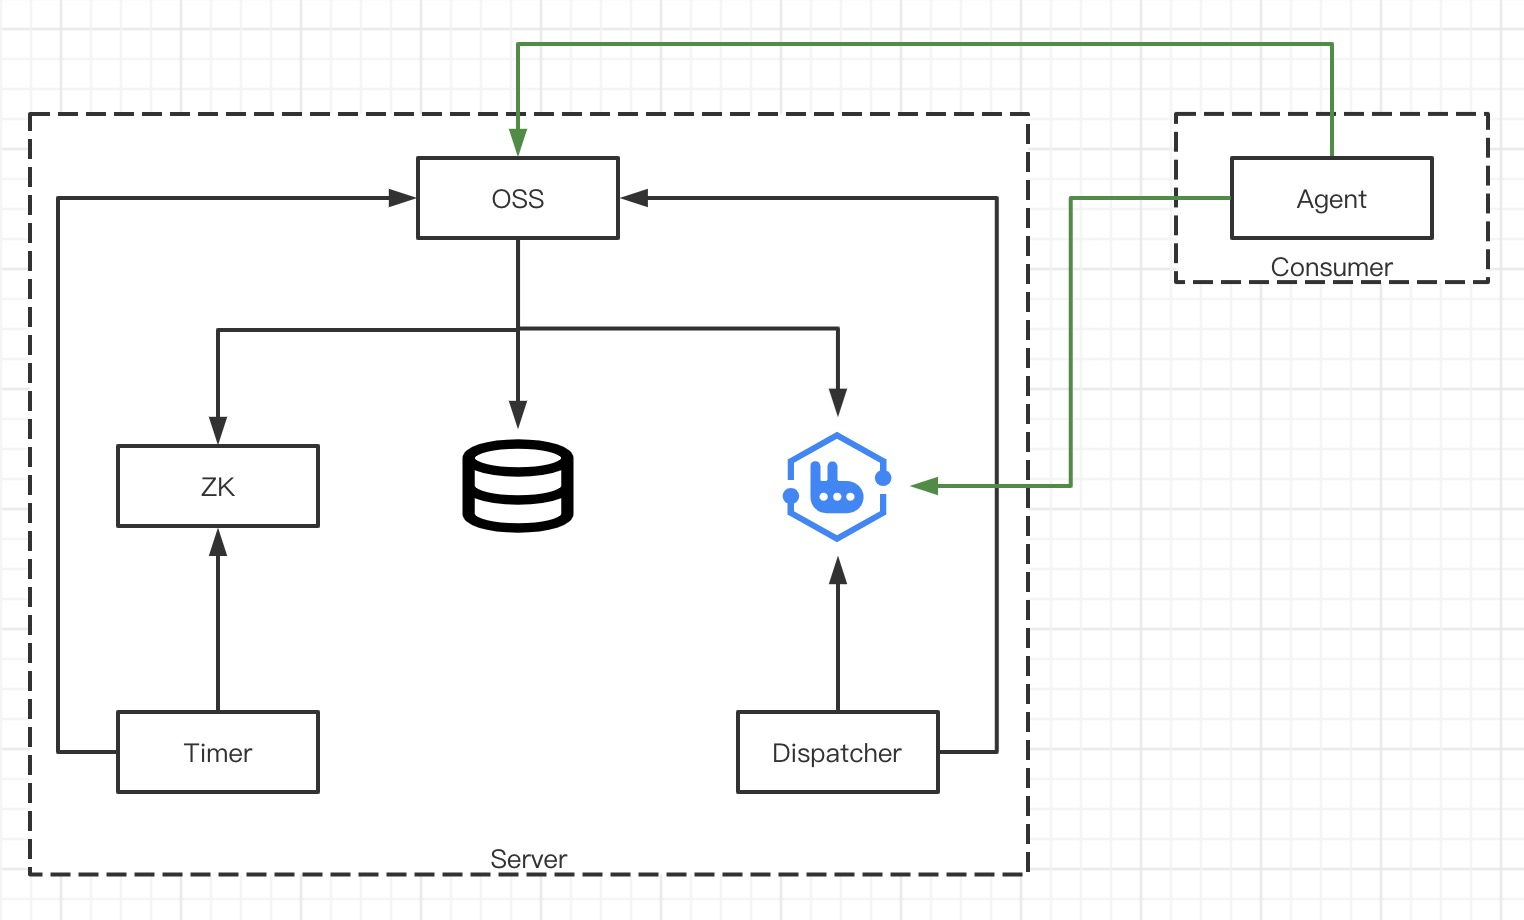
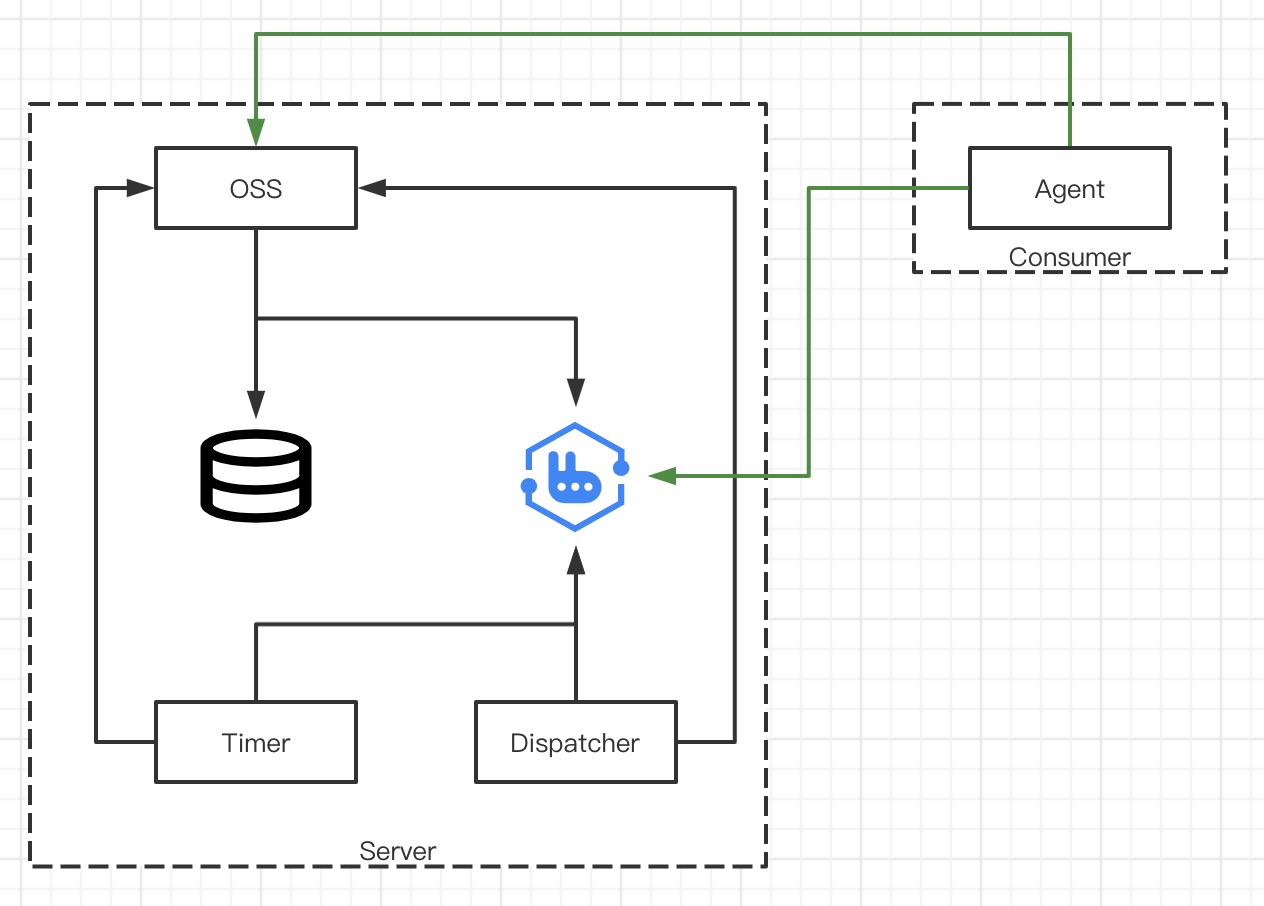
pipeline state machine

Changed region(s): [[0.0, 0.0309, 0.9873, 0.9581], [0.7097, 0.0927, 0.7405, 0.1236], [0.6479, 0.1236, 0.6788, 0.1545]]

diff --git a/doc/design.md b/doc/design.md
@@ -31,18 +31,21 @@
 - MQ : 消息队列
 - Dispatcher : 状态流转调度器
 - Timer : 定时触发器
-- ZK : 策略变更事件
 
 ## 编排运行机制 ##
 
-### 状态机 ###
+名词引入 :
+- pipeline : 将编排的一次触发运行，称作一个pipeline
 
-先解释一下，MQ中有两类消息 :
+### 正常顺序 ###
+
+先解释一下，MQ中有三类消息 :
 
 | 消息 | 生产者 | 消费者 | 描述 |
 | ---- | ---- | ---- | ---- |
 | 调度命令 | OSS | Dispatcher | 哪个任务要被调度（希望更新一下它的状态流转） |
 | 状态流转 | Dispatcher | 业务方Consumer上的Agent | 编排的步骤进度流转 |
+| 策略更新 | OSS | Timer | Timer监听编排策略的变更 |
 
 如此，对编排运行的状态机的维护，就从OSS抽离出来，专门让Dispatcher负责。
 
@@ -60,25 +63,41 @@
 **定时触发阶段**
 
 - 【Timer】启动后，调用【OSS】接口，拉取定时触发策略，缓存到本地
-- 当既有编排的定时触发策略被更新时，【OSS】会将策略写入【DB】，并在【ZK】中对应节点上触发事件
-- 【Timer】监听【ZK】中的事件，再次调用【OSS】接口，以更新自己本地内存中的策略
+- 当既有编排的定时触发策略被更新时，【OSS】会将策略写入【DB】，并封装一个 **"策略更新"的消息**，扔给【MQ】
+- 【Timer】订阅【MQ】中的事件，再次调用【OSS】接口，以更新自己本地内存中的策略
 - 【Timer】根据本地缓存的策略，当需要触发某个编排时，调用【OSS】接口来完成
 
 **任务执行阶段**
 
-- 【Dispatcher】从【MQ】拿到【调度命令】，从中得到 taskId、编排ID
+- 【Dispatcher】从【MQ】拿到【调度命令】，从中得到 pipeline-id
 - 【Dispatcher】调用【OSS】接口，获取 任务进度 + 编排DAG
 - 【Dispatcher】根据DAG拓扑关系，计算现在应该执行哪些节点，并封装 **"状态流转"的消息**，扔给【MQ】
 - 业务方消费者，会集成我们提供的【Agent】，它会订阅自己关注的 **"状态流转"的消息**
 - 执行完业务逻辑后，【Agent】调用【OSS】接口上报 本步骤的结果
-- 【OSS】更新任务进度到【DB】，并再次封装一个 **"调度命令"的消息**（taskId、编排ID），扔给【MQ】，这就循环到了第一步
+- 【OSS】更新任务进度到【DB】，若本步骤是成功的，则应该继续下一步，做法是再次封装一个 **"调度命令"的消息**，扔给【MQ】，这就循环到了第一步
 
 ### 异常处理 ###
+
 #### 中断 ####
+
+在【pipeline】上设置一个**中断标记**，当【Agent】调用【OSS】接口上报某步骤的结果后，若发现有这个中断标记，则不会给【MQ】发送调度命令，而是将pipeline设为**已终止**
+
+限制 :
+- 中断不会影响当前正在执行的步骤。即不会让【Agent】立即杀死业务逻辑
+
 #### 中断恢复 ####
+
+前提 :
+- pipeline是**已终止**状态
+- pipeline已执行的步骤中，最后一步是成功的
+
+【OSS】发送"调度命令"给【MQ】，重新激活该pipeline
+
 #### 失败继续 ####
 
-## 编排管理 ##
+场景 : 某步骤失败了，但是经过一些人为的挽救措施，搞好了。这时候想让引擎继续往下执行
+前提 : 与中断恢复类似，但要求已执行的步骤中，最后一步是失败的
 
-### 历史任务 ###
-### 定时触发 ###
+### pipeline状态变化 ###
+
+<img src="https://static-1256056882.cos.ap-guangzhou.myqcloud.com/seven/jobflow.pipeline.state.png">

diff --git a/doc/model.md b/doc/model.md
@@ -6,9 +6,15 @@
 
 ## 对象 ##
 
-### 编排节点 ###
-### 编排 ###
-### 编排的历史任务 ###
-### 任务的执行进度 ###
-### 定时触发策略 ###
-### 状态消息 ###
+### 数据库设计 ###
+#### 编排节点 ####
+#### 编排 ####
+#### 编排的历史任务 ####
+#### 任务的编排 ####
+#### 任务的执行进度 ####
+#### 定时触发策略 ####
+
+### 消息设计 ###
+#### 调度命令 ####
+#### 状态流转 ####
+#### 策略更新 ####
